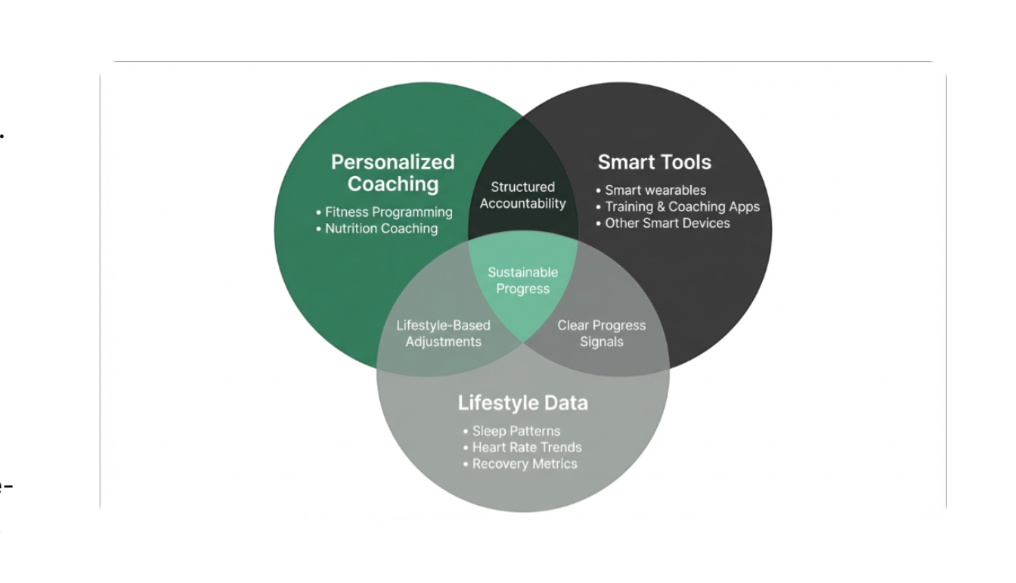
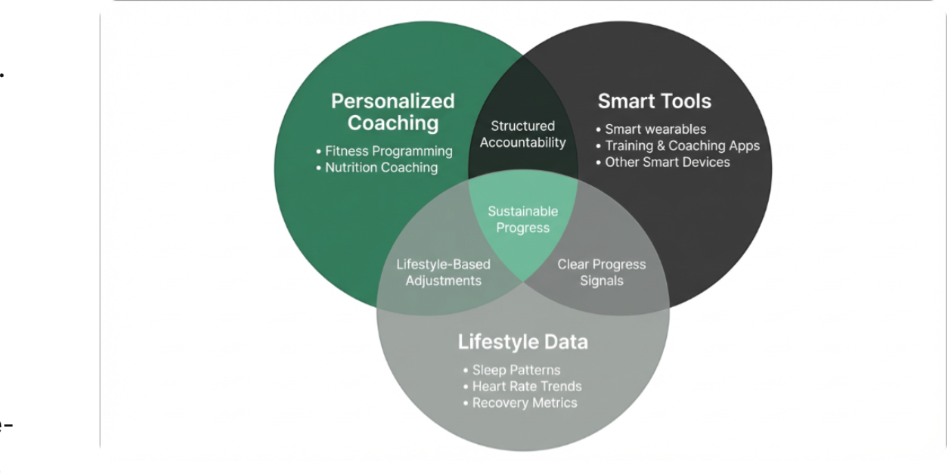
fix: aggressively crop image whitespace

Changed region(s): [[0.0919, 0.0296, 0.9187, 0.9767], [0.0919, 0.148, 0.1225, 0.8584], [0.0, 0.8879, 0.0306, 0.9175]]

diff --git a/src/components/AboutSection.jsx b/src/components/AboutSection.jsx
@@ -28,7 +28,7 @@ const AboutSection = () => {
 
                         {/* Mobile Image: Appears after 2nd paragraph */}
                         <img
-                            src="/align-method-chart-new.png"
+                            src="/align-method-chart.png?v=5"
                             alt="Align Health Method - Personalized, Structured, Sustainable"
                             className="about-chart mobile-only-chart"
                         />
@@ -46,7 +46,7 @@ const AboutSection = () => {
 
                     <div className="about-image desktop-only-chart">
                         <img
-                            src="/align-method-chart-new.png"
+                            src="/align-method-chart.png?v=5"
                             alt="Align Health Method - Personalized, Structured, Sustainable"
                             className="about-chart"
                         />
